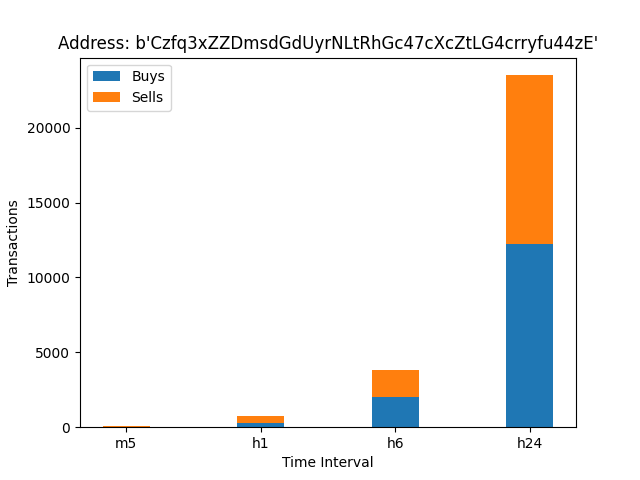
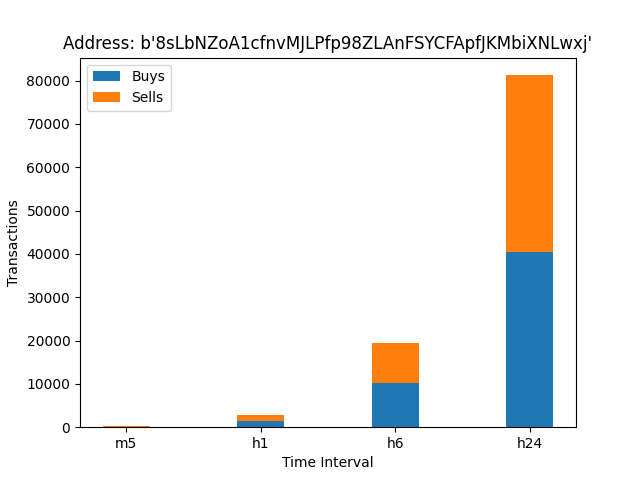
integrated raydium AMM data

diff --git a/templates/raydium.html b/templates/raydium.html
@@ -1,0 +1,82 @@
+{% extends "base.html" %}
+
+{% block title %}Home - Dexscreener{% endblock %}
+
+{% block content %}
+<div class="container mt-4">
+    <!-- Summary Div -->
+    <div class="d-none d-md-block" id="summary-div">
+        <!-- Summary content will be dynamically inserted here -->
+    </div>
+    <div class="row">
+        {% for data in pool_data %}
+          <div class="col-md-4 mb-4">
+            <div class="card" data-token-pair="{{ data['pool_id'] }}">
+              <div class="card-body">
+                <h5 class="card-title">{{ data['pool_id'] }}</h5>
+                <!-- <p><strong>Pool ID:</strong> {{ data['pool_id'] }}</p> -->
+                <p><strong>TVL</strong> {{ data['tvl'] }}</p>  
+                <p><strong>Price (USD):</strong> {{ data['price'] }}</p>
+              </div>
+            </div>
+          </div>
+        {% endfor %}
+      </div>
+</div>
+
+<script>
+document.addEventListener('DOMContentLoaded', () => {
+    const cards = document.querySelectorAll('.card');
+    const summaryDiv = document.getElementById('summary-div');   
+
+    cards.forEach(card => {
+        card.addEventListener('click', () => {
+            const tokenPairAddress = card.getAttribute('data-token-pair');
+            console.log(tokenPairAddress);
+
+            sendTokenPairAddressToFlask(tokenPairAddress);
+
+            summaryDiv.style.display = 'block';
+            summaryDiv.innerHTML = `
+                <div> 
+                    <img src="transaction_chart.png?t=${new Date().getTime()}" alt="Transaction Chart">
+                </div>
+            `;
+        });
+    });
+
+    function sendTokenPairAddressToFlask(tokenPairAddress) {
+        fetch('/process-data', {
+            method: 'POST',
+            headers: {
+                'Content-Type': 'application/json',
+            },
+            body: JSON.stringify({ tokenPairAddress: tokenPairAddress }),
+        })
+        .then(response => response.json())
+        .then(data => {
+            console.log('Success:', data.pair_URL);
+            const pair_URL = data.pair_URL;
+            const chain_id = data.chain_id;
+            const dex_id = data.dex_id;
+            const quote_token = data.quote_token;
+            const base_token = data.base_token;
+            
+            summaryDiv.innerHTML = `
+                <div> 
+                    <p> ${quote_token} / ${base_token} </p> 
+                    <p> Chain: ${chain_id} </p> 
+                    <p> Dex: ${dex_id} </p>
+                    <p> URL: <a href="${pair_URL}">${pair_URL}</a> </p>
+                    <img src="transaction_chart.png?t=${new Date().getTime()}" alt="Transaction Chart">
+                </div>
+            `;
+        })
+        .catch((error) => {
+            console.error('Error:', error);
+        });
+    }
+});
+
+</script>
+{% endblock %}

diff --git a/templates/base.html b/templates/base.html
@@ -35,6 +35,9 @@
                 <li class="nav-item">
                     <a class="nav-link" href="{{ url_for('arb', user_input=request.args.get('user_input', 'SOL')) }}">Arb</a>
                 </li>
+                <li class="nav-item">
+                    <a class="nav-link" href="{{ url_for('raydium') }}">Raydium AMM</a>
+                </li>
             </ul>
             <form action="{{ request.path }}" method="get" class="form-inline ml-auto">
                 <input class="form-control mr-sm-2" type="text" name="user_input" value="{{ request.args.get('user_input', 'SOL') }}" placeholder="Search...">

diff --git a/main.py b/main.py
@@ -272,6 +272,33 @@ def trending():
     
     return render_template('trending.html', search=search, user_input=searchTicker)
 
+@app.route('/raydium', methods=['GET', 'POST'])
+def raydium():
+    url = "https://api.raydium.io/v2/ammV3/ammPools"
+
+    try:
+        response = requests.get(url)
+        response.raise_for_status()  # Raise an exception for error status codes
+
+        data = response.json()
+        amm_pools = []
+
+        for pool in data['data']:
+            pool_data = {
+                "pool_id": pool['id'],
+                "price": pool["price"],  # Uncomment and add relevant fields
+                "tvl": pool["tvl"],
+                # Add other relevant information if needed
+            }
+            # print(pool_data)
+            amm_pools.append(pool_data)
+
+        return render_template('raydium.html', pool_data=amm_pools)
+
+    except requests.exceptions.RequestException as e:
+        print("Error fetching data:", e)
+        return render_template('raydium.html', amm_pools=[])
+
 
 @app.route('/summary')
 def summary():
